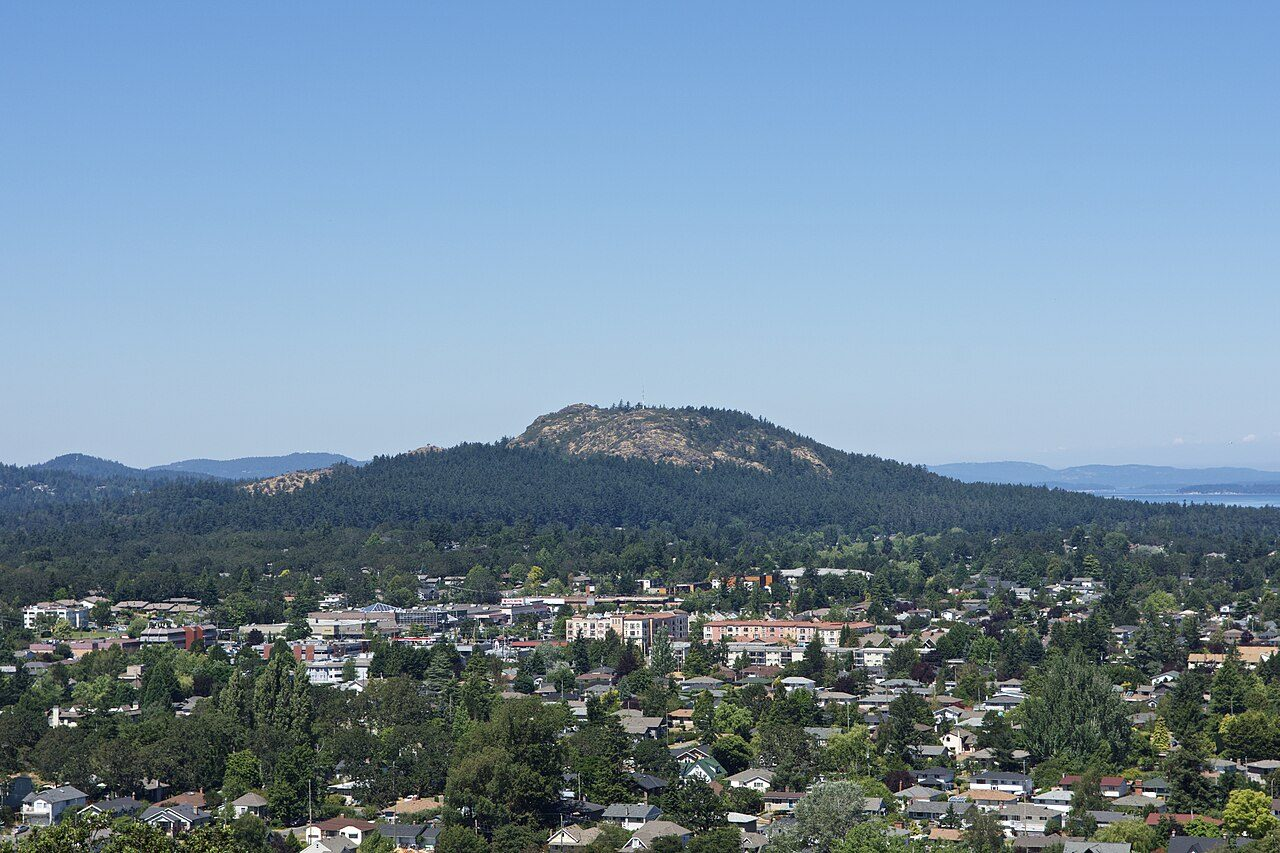
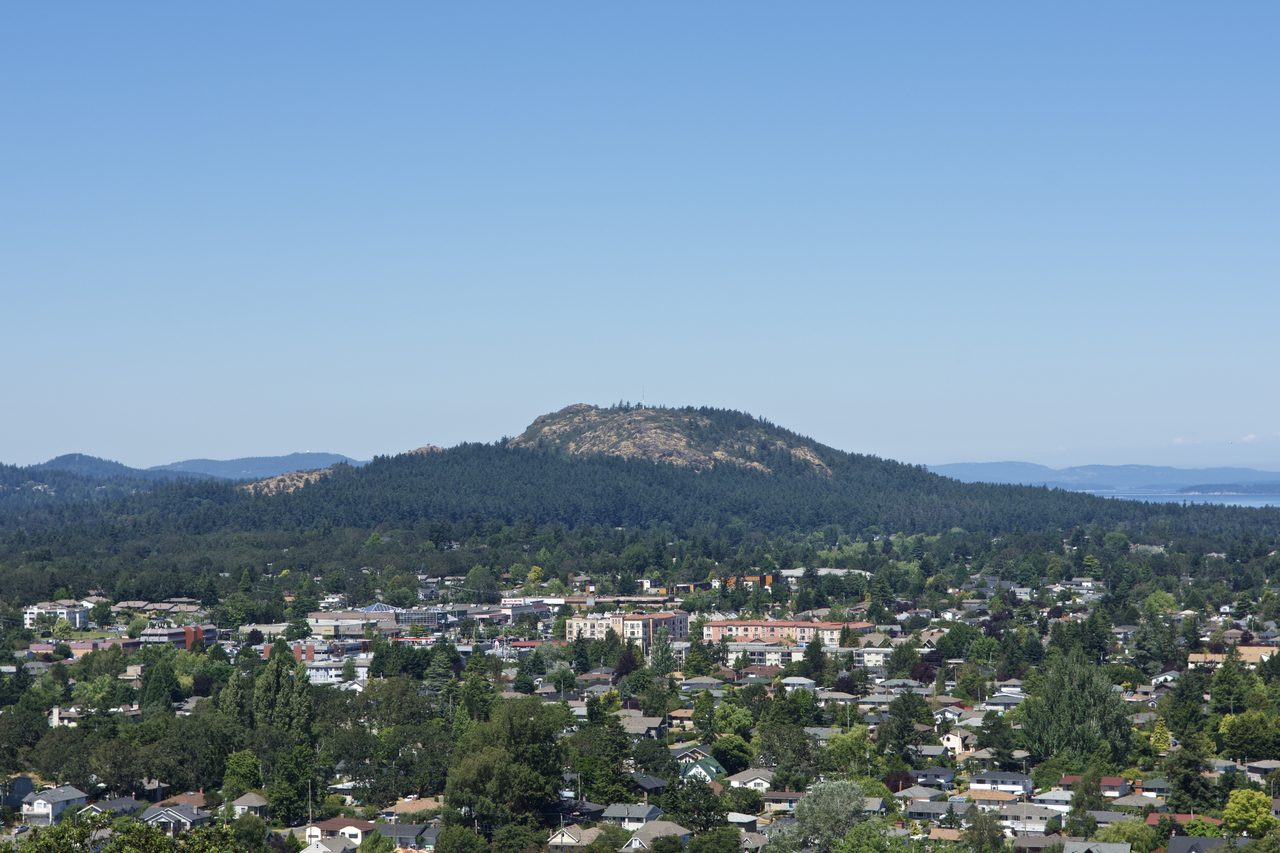
Financial Strategy: sharper hero from the full-size original, add 2400w
Claude-Session: https://claude.ai/code/session_01XRxcup4RjqEJdjJNVqCb67

diff --git a/financial-strategy.html b/financial-strategy.html
@@ -36,7 +36,7 @@
 
 <main id="main">
   <section class="page-hero photo-hero" aria-labelledby="page-title">
-    <img class="hero-photo" src="images/places/saanich-view-1280.jpg" srcset="images/places/saanich-view-800.jpg 800w, images/places/saanich-view-1280.jpg 1280w" sizes="100vw" alt="" fetchpriority="high" style="object-position: 50% 65%">
+    <img class="hero-photo" src="images/places/saanich-view-1280.jpg" srcset="images/places/saanich-view-800.jpg 800w, images/places/saanich-view-1280.jpg 1280w, images/places/saanich-view-2400.jpg 2400w" sizes="100vw" alt="" fetchpriority="high" style="object-position: 50% 65%">
     <div class="wrap">
       <p class="eyebrow"><a href="services.html">Services</a></p>
       <h1 id="page-title">Financial Strategy</h1>

diff --git a/images/places/SOURCES.md b/images/places/SOURCES.md
@@ -5,7 +5,7 @@ Credits are shown on each photo and on photo-credits.html. Attributions supplied
 | File | Place | Credit and licence | Status |
 | --- | --- | --- | --- |
 | saint-john-harbour-bridge-* | Saint John, NB | diearle on Pixabay, "Saint John Water Harbour", Pixabay Content License, https://pixabay.com/photos/saint-john-3556952/ | Credited |
-| saanich-view-* | Saanich, BC (Mount Douglas from Mount Tolmie) | ecwiebe on Wikimedia Commons, "View of Mount Douglas from the south" (18 July 2017), CC BY-SA 4.0 (licence confirmed by Bruce from the Commons page, 2026-11-26); original 5676 x 3784, supplied resized to 1280 x 853 and tinted on the page | Licence confirmed; credit required |
+| saanich-view-* | Saanich, BC (Mount Douglas from Mount Tolmie) | ecwiebe on Wikimedia Commons, "View of Mount Douglas from the south" (18 July 2017), CC BY-SA 4.0 (licence confirmed by Bruce from the Commons page, 2026-11-26); full-size original (5676 x 3784) supplied by Bruce 2026-11-26; resized to 800, 1280 and 2400 wide and tinted on the page | Licence confirmed; credit required |
 | almonte-aerial-* | Almonte (Mississippi Mills), ON | Supplied by Bruce 2026-10-20 as "Almonte2.jpg" (1996 x 1330); no EXIF author or copyright | Source and licence to confirm |
 | london-downtown-panorama-* | London, ON | Itskdoubt on Wikimedia Commons, "London Ontario Downtown & Victoria Park" (9 June 2017, from the City Hall observation deck), CC BY-SA 4.0 (licence confirmed by Bruce from the Commons page, 2026-11-26), https://commons.wikimedia.org/wiki/File:London_Ontario_Downtown_%26_Victoria_Park.jpg; original 5208 x 1997, resized to 1920 x 737 and tinted on the page | Licence confirmed; credit required |
 | fort-frances-post-office-* | Fort Frances, ON | Supplied by Bruce 2026-10-19 (client photos) as "Post_Office_Fort_Frances_Ontario_29036257497.jpg"; filename suggests a Flickr/Wikimedia upload, not verified | Source and licence to confirm |
